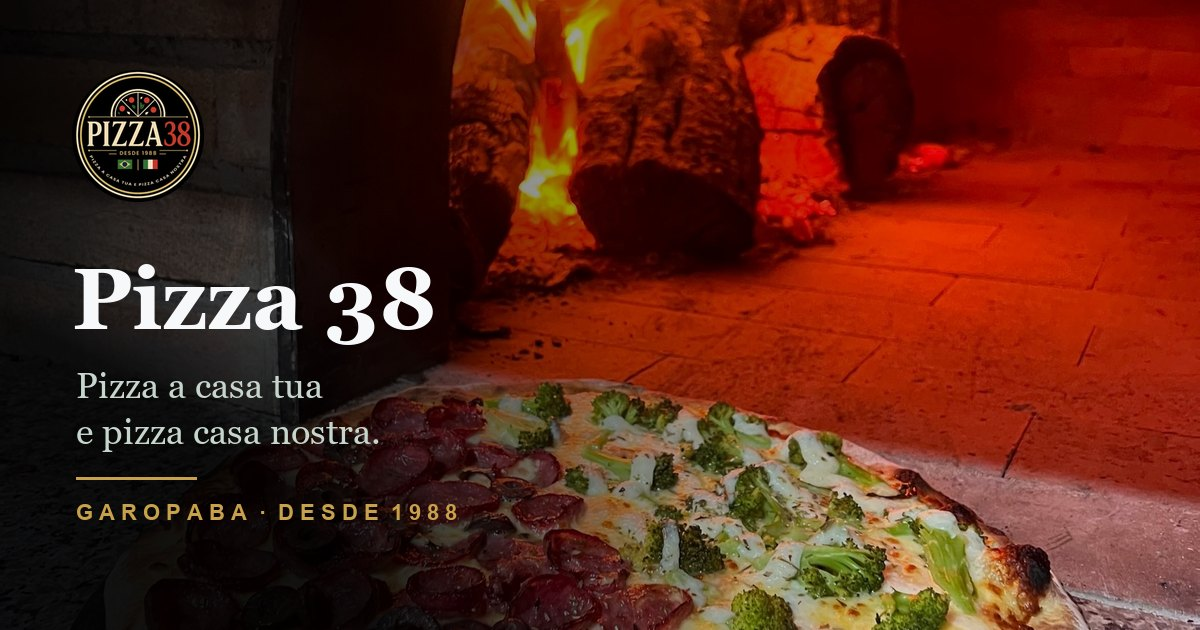
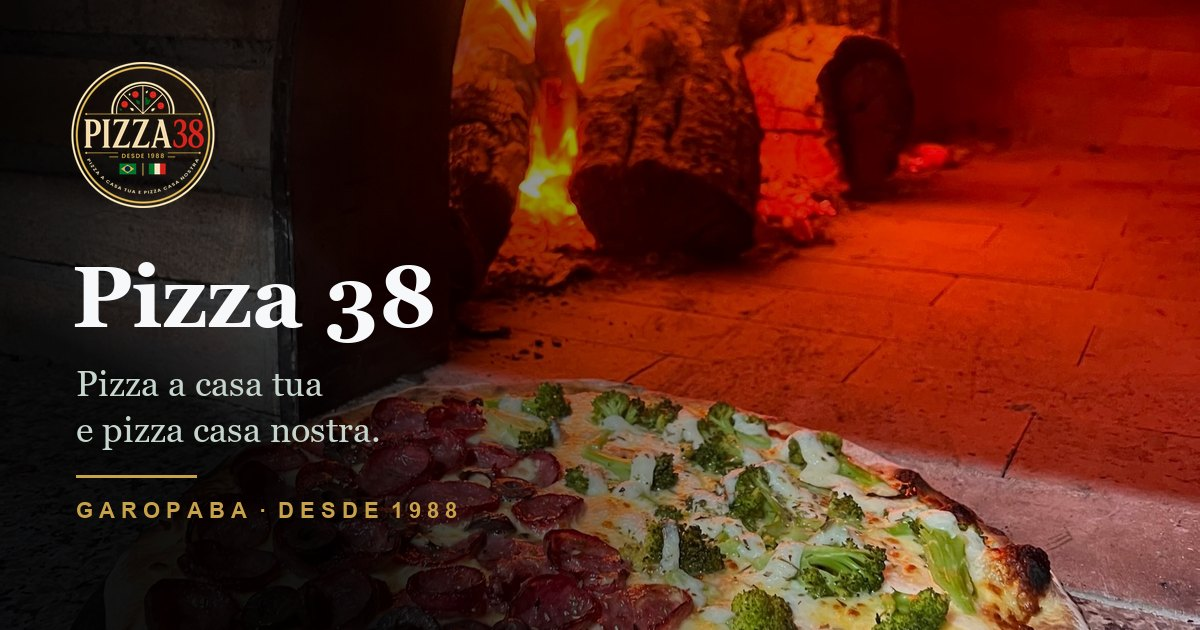
Brasão oficial da casa e o retrato do dono na história
A pizzaria mandou o kit da marca. Entra a versão "fundos escuros",
transparente, que é exatamente o nosso caso — e saem a máscara redonda,
o object-fit e o scale(1.08) do cabeçalho: aquilo existia para esconder
a moldura quadrada do JPG antigo e, sobre o arquivo oficial, só cortava
o filete dourado. No link da bio cai a borda, porque o brasão já tem o
próprio aro.

O retrato do dono vai para historia.html em preto e branco. O site
inteiro é fogo laranja; uma pessoa em cor no meio disso vira mais uma
foto de comida. Mistura de canais com o vermelho pesado (a luma padrão
escurece pele morena), vinheta centrada no rosto e não no meio do
quadro — ele está no terço esquerdo.

Falta o nome dele. O texto e a legenda funcionam sem, com TODO onde
entra.

diff --git a/historia.html b/historia.html
@@ -15,7 +15,6 @@
 <meta property="og:image" content="https://www.pizza38garopaba.com.br/assets/og-image-1200x630.jpg">
 <meta name="twitter:card" content="summary_large_image">
 <meta name="theme-color" content="#0C2118">
-<link rel="icon" href="assets/favicon.svg" type="image/svg+xml">
 <link rel="icon" href="assets/favicon-32.png" sizes="32x32">
 <link rel="apple-touch-icon" href="assets/favicon-180.png">
 <link rel="preconnect" href="https://fonts.googleapis.com">
@@ -30,7 +29,7 @@
 <header class="topo fixo">
   <div class="wrap topo__wrap">
     <a class="topo__marca" href="./">
-      <img src="assets/logo.jpg" alt="" width="52" height="52">
+      <img src="assets/logo.png" alt="" width="52" height="52">
       <span class="topo__nome">
         <b>Pizza 38</b>
         <span>Garopaba · desde 1988</span>
@@ -80,6 +79,32 @@
       </div>
       <div class="duo__foto sobe" style="--atraso: 100ms">
         <img src="assets/fotos/brasa.jpg" alt="Pizza em cima da brasa, na boca do forno" width="1400" height="1050" loading="lazy">
+      </div>
+    </div>
+  </section>
+
+  <section class="secao secao--linha" id="quem-faz">
+    <div class="wrap duo duo--invertido">
+      <figure class="retrato sobe">
+        <img src="assets/fotos/dono.jpg" alt="O dono da Pizza 38 na cozinha, segurando uma pizza de quatro sabores na caixa" width="1100" height="1368" loading="lazy">
+        <figcaption>Na boca do forno, em Garopaba.</figcaption>
+      </figure>
+
+      <div>
+        <p class="kicker sobe">Quem faz</p>
+        <!-- TODO: confirmar com a casa — o nome de quem toca a pizzaria hoje,
+             e desde quando. O texto está escrito para funcionar sem o nome;
+             quando ele chegar, entra aqui e na legenda da foto. -->
+        <h2 class="sobe" style="--atraso: 60ms">Todo dia,<br>a mesma mão.</h2>
+        <p class="lead sobe" style="--atraso: 120ms">
+          Quem abre a casa acende a lenha antes de qualquer outra coisa. Só
+          depois vem a massa, que já descansou dois dias na geladeira, e aí o
+          resto do dia é repetir: abrir, rechear, enfornar, tirar.
+        </p>
+        <p class="suave sobe" style="--atraso: 180ms; margin-top: 16px">
+          Trinta e oito anos assim. É por isso que a pizza sai igual na terça
+          de inverno e no sábado de janeiro — a mesma mão, o mesmo tempo.
+        </p>
       </div>
     </div>
   </section>
@@ -153,7 +178,7 @@
     <div class="rodape__grade">
       <div>
         <a class="topo__marca" href="./" style="margin-bottom: 14px">
-          <img src="assets/logo.jpg" alt="" width="52" height="52">
+          <img src="assets/logo.png" alt="" width="52" height="52">
           <span class="topo__nome"><b>Pizza 38</b><span>Desde 1988</span></span>
         </a>
         <p class="mini" style="max-width: 30ch">Pizza a casa tua e pizza casa nostra.</p>

diff --git a/assets/styles.css b/assets/styles.css
@@ -167,9 +167,14 @@ ul { list-style: none; padding: 0; }
 }
 .topo__wrap { display: flex; align-items: center; justify-content: space-between; gap: 20px; width: 100%; }
 .topo__marca { display: flex; align-items: center; gap: 12px; text-decoration: none; color: var(--creme); }
+/*
+  O brasão é PNG com fundo transparente, feito pela casa para fundo escuro —
+  ele já vem redondo. Por isso não tem máscara nem `scale(1.08)` aqui: aquilo
+  existia para esconder a moldura quadrada do JPG antigo e, sobre o arquivo
+  oficial, só cortaria o filete dourado da borda.
+*/
 .topo__marca img {
-  width: 52px; height: 52px; border-radius: 50%; object-fit: cover;
-  transform: scale(1.08); transition: width .3s, height .3s;
+  width: 52px; height: 52px; transition: width .3s, height .3s;
 }
 .topo.fixo .topo__marca img { width: 40px; height: 40px; }
 .topo__nome b { font-family: var(--fonte-titulo); font-size: 1.2rem; font-weight: 700; letter-spacing: .02em; }
@@ -354,6 +359,17 @@ ul { list-style: none; padding: 0; }
 @media (min-width: 900px) { .duo { grid-template-columns: 1fr 1fr; } .duo--invertido > :first-child { order: 2; } }
 .duo__foto { border-radius: var(--radius-lg); overflow: hidden; border: 1px solid var(--linha); }
 .duo__foto img { width: 100%; aspect-ratio: 4 / 3; object-fit: cover; }
+
+/* Retrato em pé. A foto do dono é preto e branco de propósito: a casa inteira
+   é fogo laranja, e uma pessoa em cor no meio disso vira mais uma foto de
+   comida. Em P&B ela é a única presença humana da página e para o olho. */
+.retrato { margin: 0; border-radius: var(--radius-lg); overflow: hidden; border: 1px solid var(--linha); position: relative; }
+.retrato img { width: 100%; aspect-ratio: 4 / 5; object-fit: cover; object-position: 50% 12%; }
+.retrato figcaption {
+  position: absolute; inset: auto 0 0; padding: 44px 22px 18px;
+  font-size: .86rem; color: var(--cinza);
+  background: linear-gradient(to top, rgb(7 17 12 / .92), transparent);
+}
 
 /* ------------------------------------------------------------
    Linha do tempo da história

diff --git a/links/index.html b/links/index.html
@@ -43,11 +43,12 @@
   }
   .coluna { width: 100%; max-width: 480px; display: flex; flex-direction: column; align-items: center; }
 
+  /* Sem borda: o brasão já traz o próprio filete dourado, e um segundo anel
+     por fora vira dois aros concêntricos. O brilho vai de `drop-shadow`, que
+     segue o recorte da arte, e não de `box-shadow`, que faria um quadrado. */
   .bio__marca {
-    width: 118px; height: 118px; border-radius: 50%; object-fit: cover;
-    transform: scale(1.08);
-    border: 2px solid rgb(200 162 74 / .55);
-    box-shadow: 0 0 60px -18px rgb(200 162 74 / .8);
+    width: 124px; height: 124px;
+    filter: drop-shadow(0 0 34px rgb(200 162 74 / .45));
   }
   .bio h1 { font-size: 1.7rem; margin-top: 18px; }
   .bio__arroba {
@@ -115,7 +116,7 @@
 <body class="bio" data-zap="5548992223968" data-abre="18" data-fecha="23" data-dias="0,1,3,4,5,6">
 <main class="coluna">
 
-  <img class="bio__marca" src="../assets/logo.jpg" alt="Brasão da Pizza 38" width="118" height="118">
+  <img class="bio__marca" src="../assets/logo.png" alt="Brasão da Pizza 38" width="124" height="124">
   <h1>Pizza 38</h1>
   <a class="bio__arroba" href="https://www.instagram.com/pizza38__" target="_blank" rel="noopener">@pizza38__</a>
   <p class="bio__frase">Pizza a casa tua e pizza casa nostra. Garopaba, desde 1988.</p>

diff --git a/404.html b/404.html
@@ -15,7 +15,6 @@
 <meta property="og:image" content="https://www.pizza38garopaba.com.br/assets/og-image-1200x630.jpg">
 <meta name="twitter:card" content="summary_large_image">
 <meta name="theme-color" content="#0C2118">
-<link rel="icon" href="/assets/favicon.svg" type="image/svg+xml">
 <link rel="icon" href="/assets/favicon-32.png" sizes="32x32">
 <link rel="apple-touch-icon" href="/assets/favicon-180.png">
 <link rel="preconnect" href="https://fonts.googleapis.com">
@@ -30,7 +29,7 @@
 <header class="topo fixo">
   <div class="wrap topo__wrap">
     <a class="topo__marca" href="/">
-      <img src="/assets/logo.jpg" alt="" width="52" height="52">
+      <img src="/assets/logo.png" alt="" width="52" height="52">
       <span class="topo__nome">
         <b>Pizza 38</b>
         <span>Garopaba · desde 1988</span>
@@ -75,7 +74,7 @@
     <div class="rodape__grade">
       <div>
         <a class="topo__marca" href="/" style="margin-bottom: 14px">
-          <img src="/assets/logo.jpg" alt="" width="52" height="52">
+          <img src="/assets/logo.png" alt="" width="52" height="52">
           <span class="topo__nome"><b>Pizza 38</b><span>Desde 1988</span></span>
         </a>
         <p class="mini" style="max-width: 30ch">Pizza a casa tua e pizza casa nostra.</p>

diff --git a/cardapio.html b/cardapio.html
@@ -15,7 +15,6 @@
 <meta property="og:image" content="https://www.pizza38garopaba.com.br/assets/og-image-1200x630.jpg">
 <meta name="twitter:card" content="summary_large_image">
 <meta name="theme-color" content="#0C2118">
-<link rel="icon" href="assets/favicon.svg" type="image/svg+xml">
 <link rel="icon" href="assets/favicon-32.png" sizes="32x32">
 <link rel="apple-touch-icon" href="assets/favicon-180.png">
 <link rel="preconnect" href="https://fonts.googleapis.com">
@@ -30,7 +29,7 @@
 <header class="topo fixo">
   <div class="wrap topo__wrap">
     <a class="topo__marca" href="./">
-      <img src="assets/logo.jpg" alt="" width="52" height="52">
+      <img src="assets/logo.png" alt="" width="52" height="52">
       <span class="topo__nome">
         <b>Pizza 38</b>
         <span>Garopaba · desde 1988</span>
@@ -198,7 +197,7 @@
     <div class="rodape__grade">
       <div>
         <a class="topo__marca" href="./" style="margin-bottom: 14px">
-          <img src="assets/logo.jpg" alt="" width="52" height="52">
+          <img src="assets/logo.png" alt="" width="52" height="52">
           <span class="topo__nome"><b>Pizza 38</b><span>Desde 1988</span></span>
         </a>
         <p class="mini" style="max-width: 30ch">Pizza a casa tua e pizza casa nostra.</p>

diff --git a/contato.html b/contato.html
@@ -15,7 +15,6 @@
 <meta property="og:image" content="https://www.pizza38garopaba.com.br/assets/og-image-1200x630.jpg">
 <meta name="twitter:card" content="summary_large_image">
 <meta name="theme-color" content="#0C2118">
-<link rel="icon" href="assets/favicon.svg" type="image/svg+xml">
 <link rel="icon" href="assets/favicon-32.png" sizes="32x32">
 <link rel="apple-touch-icon" href="assets/favicon-180.png">
 <link rel="preconnect" href="https://fonts.googleapis.com">
@@ -30,7 +29,7 @@
 <header class="topo fixo">
   <div class="wrap topo__wrap">
     <a class="topo__marca" href="./">
-      <img src="assets/logo.jpg" alt="" width="52" height="52">
+      <img src="assets/logo.png" alt="" width="52" height="52">
       <span class="topo__nome">
         <b>Pizza 38</b>
         <span>Garopaba · desde 1988</span>
@@ -129,7 +128,7 @@
     <div class="rodape__grade">
       <div>
         <a class="topo__marca" href="./" style="margin-bottom: 14px">
-          <img src="assets/logo.jpg" alt="" width="52" height="52">
+          <img src="assets/logo.png" alt="" width="52" height="52">
           <span class="topo__nome"><b>Pizza 38</b><span>Desde 1988</span></span>
         </a>
         <p class="mini" style="max-width: 30ch">Pizza a casa tua e pizza casa nostra.</p>

diff --git a/index.html b/index.html
@@ -31,7 +31,7 @@
   "name": "Pizza 38",
   "servesCuisine": "Pizza",
   "priceRange": "$$",
-  "image": "https://www.pizza38garopaba.com.br/assets/logo.jpg",
+  "image": "https://www.pizza38garopaba.com.br/assets/logo.png",
   "url": "https://www.pizza38garopaba.com.br/",
   "telephone": "+55 48 99222-3968",
   "address": {
@@ -52,7 +52,7 @@
 <header class="topo">
   <div class="wrap topo__wrap">
     <a class="topo__marca" href="./">
-      <img src="assets/logo.jpg" alt="" width="52" height="52">
+      <img src="assets/logo.png" alt="" width="52" height="52">
       <span class="topo__nome">
         <b>Pizza 38</b>
         <span>Garopaba · desde 1988</span>
@@ -294,7 +294,7 @@
     <div class="rodape__grade">
       <div>
         <a class="topo__marca" href="./" style="margin-bottom: 14px">
-          <img src="assets/logo.jpg" alt="" width="52" height="52">
+          <img src="assets/logo.png" alt="" width="52" height="52">
           <span class="topo__nome"><b>Pizza 38</b><span>Desde 1988</span></span>
         </a>
         <p class="mini" style="max-width: 30ch">
